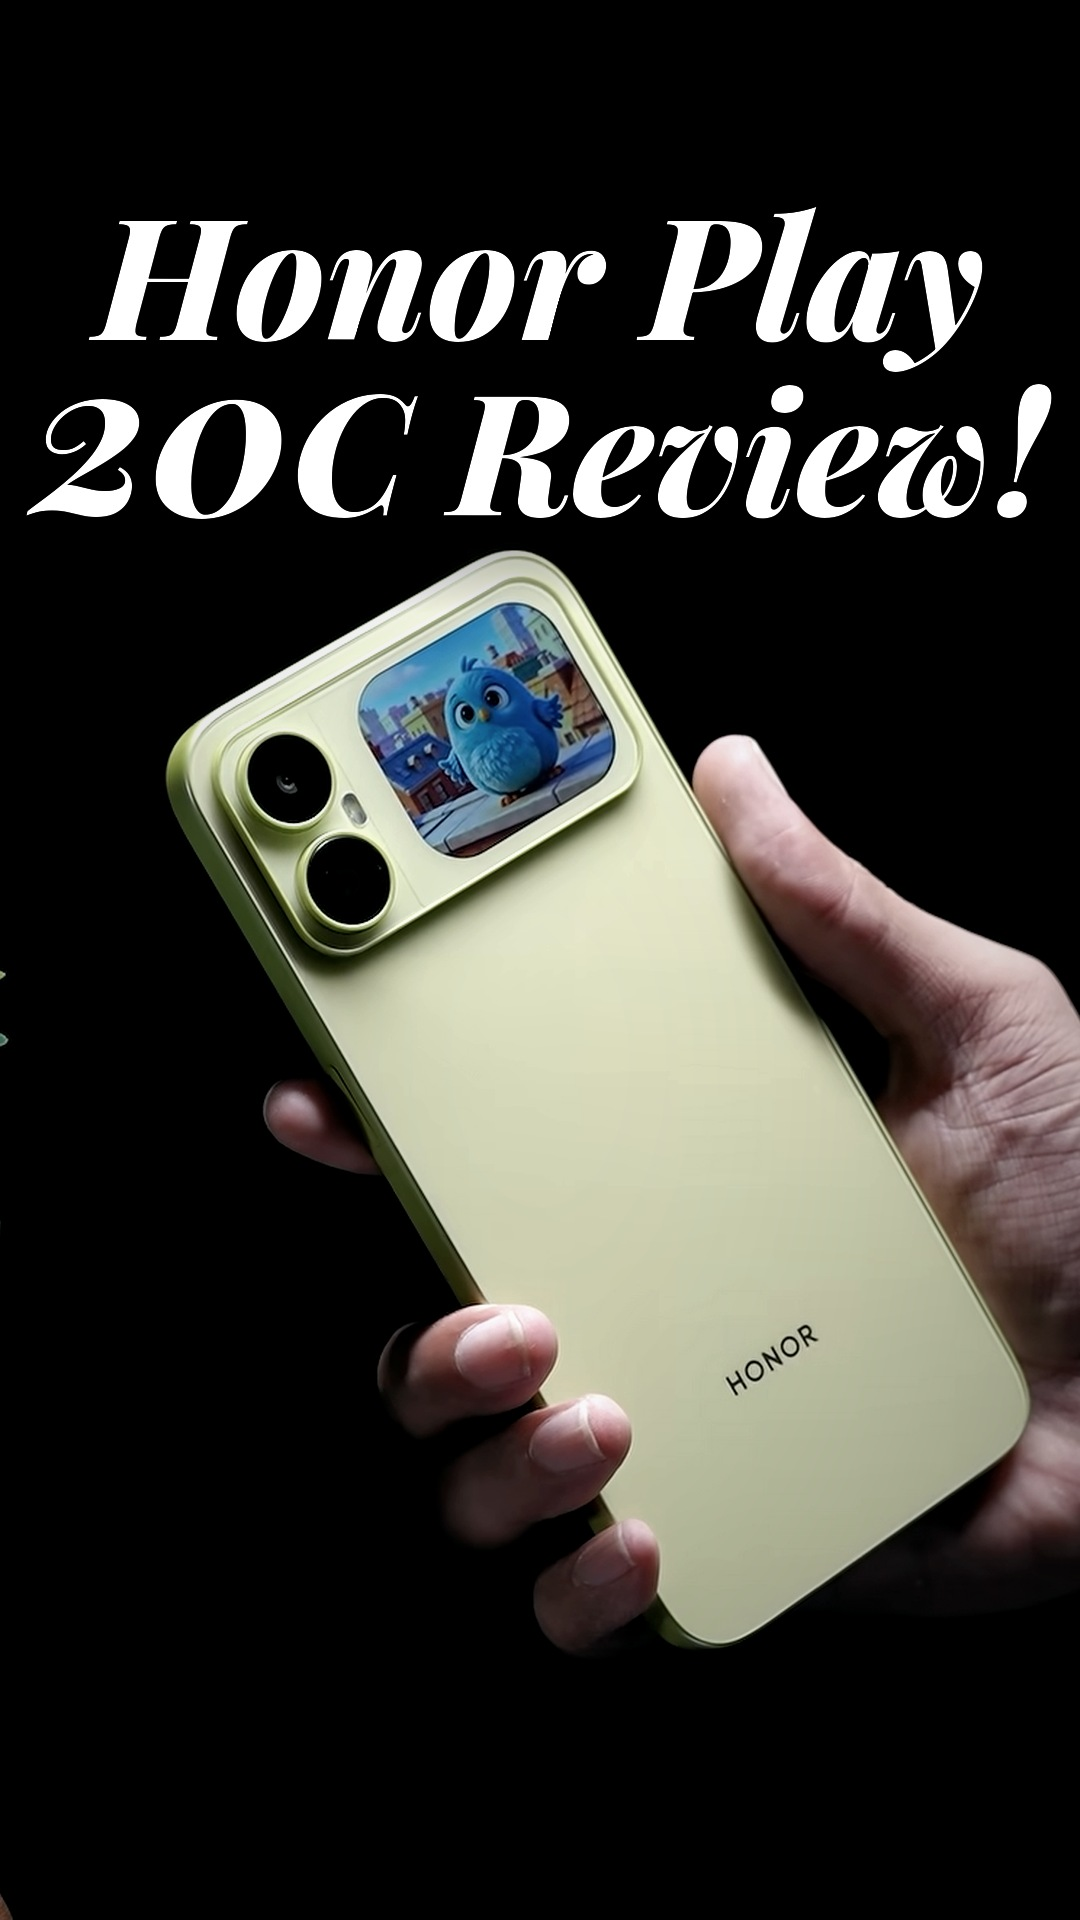
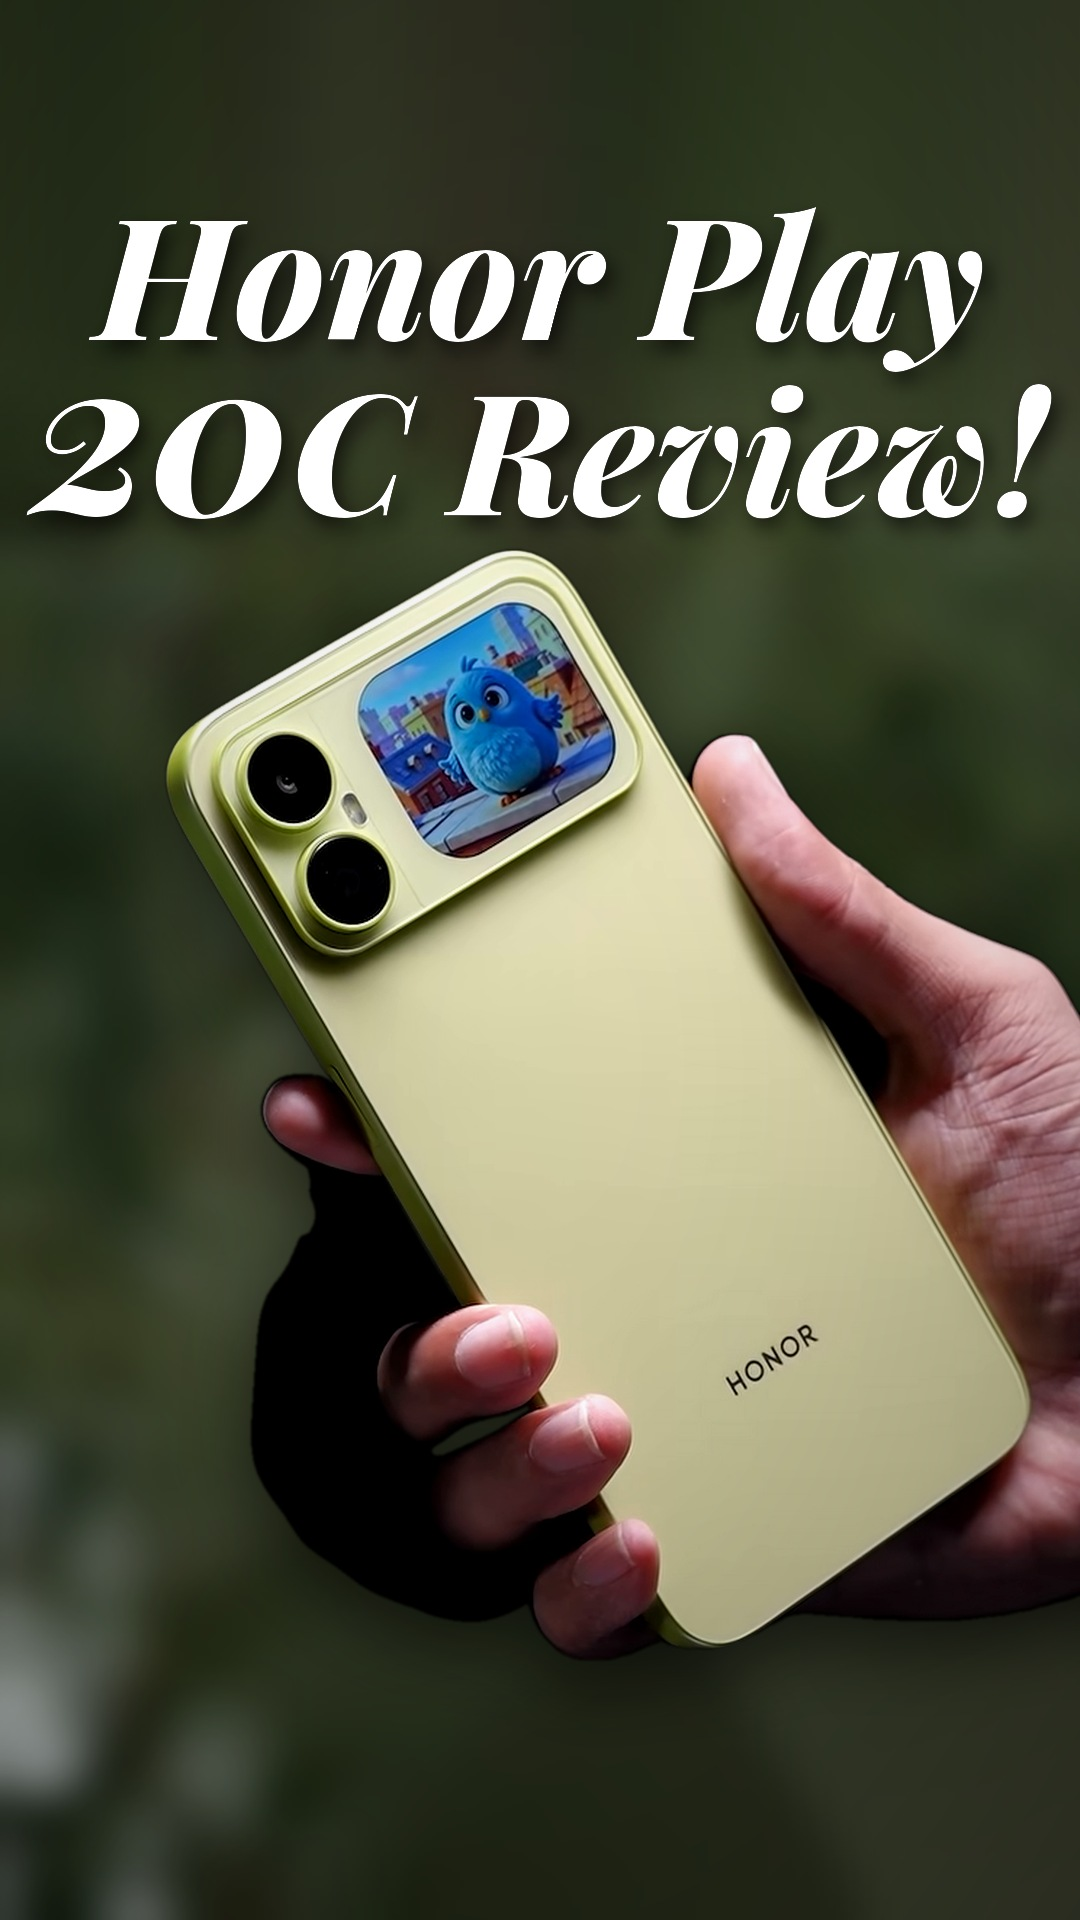
Thumbnails: brighter phones, one shared background for all 13
Claude-Session: https://claude.ai/code/session_01XKmtGdxvLNTN3BYe4CAH9y

diff --git a/.claude/skills/tech-shorts-editor/reference/thumbnails/thumbs3.py b/.claude/skills/tech-shorts-editor/reference/thumbnails/thumbs3.py
@@ -39,7 +39,10 @@ def make(frame,cx,ptop,out,lines,target=570,size_override=None):
     im=scaled(frame,cx,ptop,target)
     a=cut(im).resize(im.size);alpha=np.array(a).astype(np.float32)/255.
     alpha=np.clip((alpha-0.08)/0.84,0,1);alpha=np.array(Image.fromarray((alpha*255).astype(np.uint8)).filter(ImageFilter.GaussianBlur(1.2))).astype(np.float32)/255.
-    fg=grade(im,lum=float((np.array(im.convert("L")).astype(np.float32)*alpha).sum()/max(alpha.sum(),1)))
+    lum=float((np.array(im.convert("L")).astype(np.float32)*alpha).sum()/max(alpha.sum(),1))
+    g=min(1.7,max(0.85,128/max(lum,1)))                 # bring the phone to a bright, natural level
+    arr=np.array(ImageEnhance.Color(im).enhance(0.95)).astype(np.float32)*g
+    arr=np.clip((arr-128)*1.08+128+6,0,255);fg=Image.fromarray(arr.astype(np.uint8))
     off=H-im.height
     comp=BG.copy().convert("RGBA")
     lay=Image.new("RGBA",(W,H),(0,0,0,0));fa=Image.fromarray((alpha*255).astype(np.uint8))
@@ -47,7 +50,7 @@ def make(frame,cx,ptop,out,lines,target=570,size_override=None):
     sh=Image.new("RGBA",(W,H),(0,0,0,0));shm=Image.new("L",(W,H),0);shm.paste(fa.point(lambda v:v*150//255),(0,off+26))
     sh.putalpha(shm.filter(ImageFilter.GaussianBlur(34)));comp.alpha_composite(sh);comp.alpha_composite(lay)
     yy,xx=np.mgrid[0:H,0:W].astype(np.float32);v=np.sqrt(((xx-W/2)/(W*0.75))**2+((yy-H*0.55)/(H*0.7))**2)
-    ca=np.array(comp.convert("RGB")).astype(np.float32)*(1-0.38*np.clip(v,0,1.2)[...,None]**2)
+    ca=np.array(comp.convert("RGB")).astype(np.float32)*(1-0.30*np.clip(v,0,1.2)[...,None]**2)
     comp=Image.fromarray(np.clip(ca,0,255).astype(np.uint8)).convert("RGBA")
     dd=ImageDraw.Draw(comp);size=210
     while max(dd.textlength(t,font=T.pf(size)) for t in lines)>960 and size>120: size-=6
